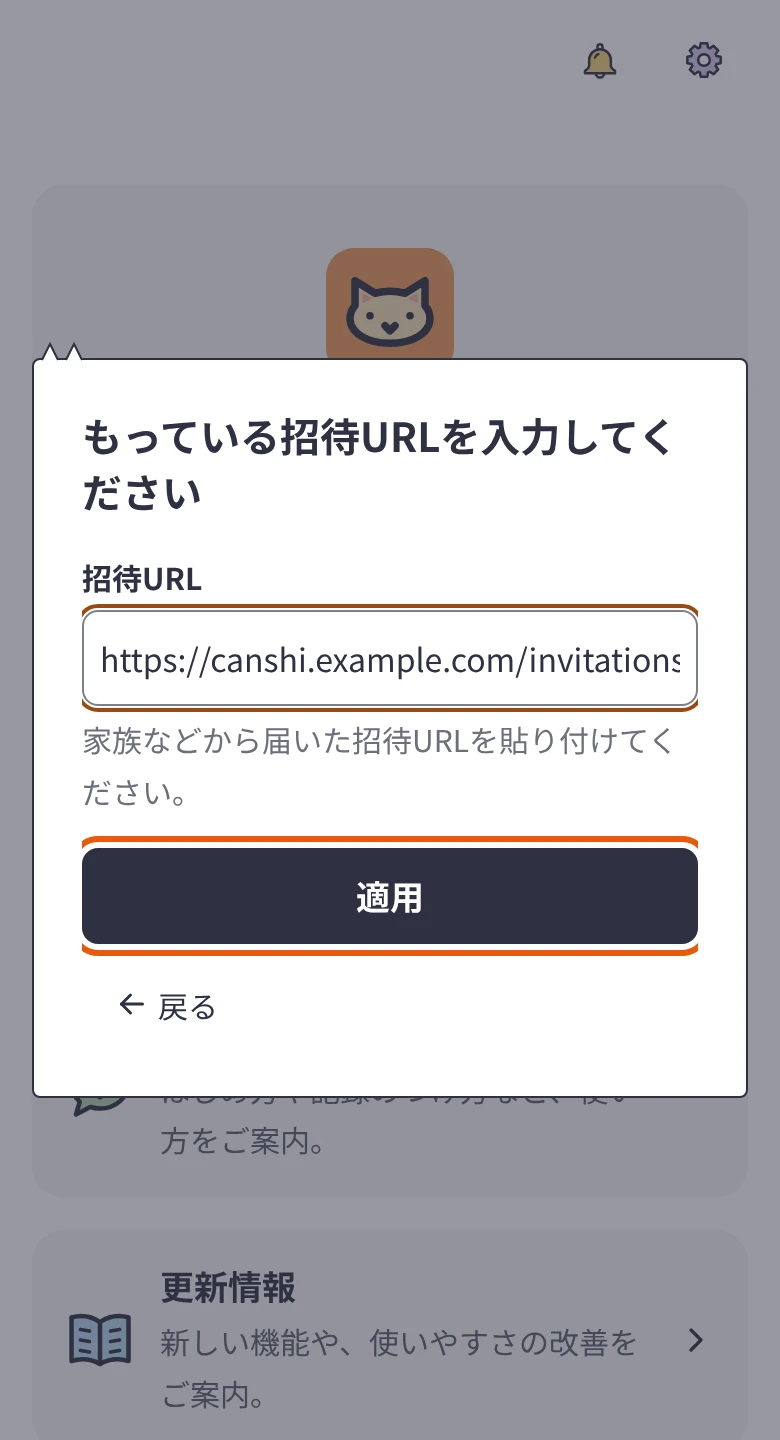
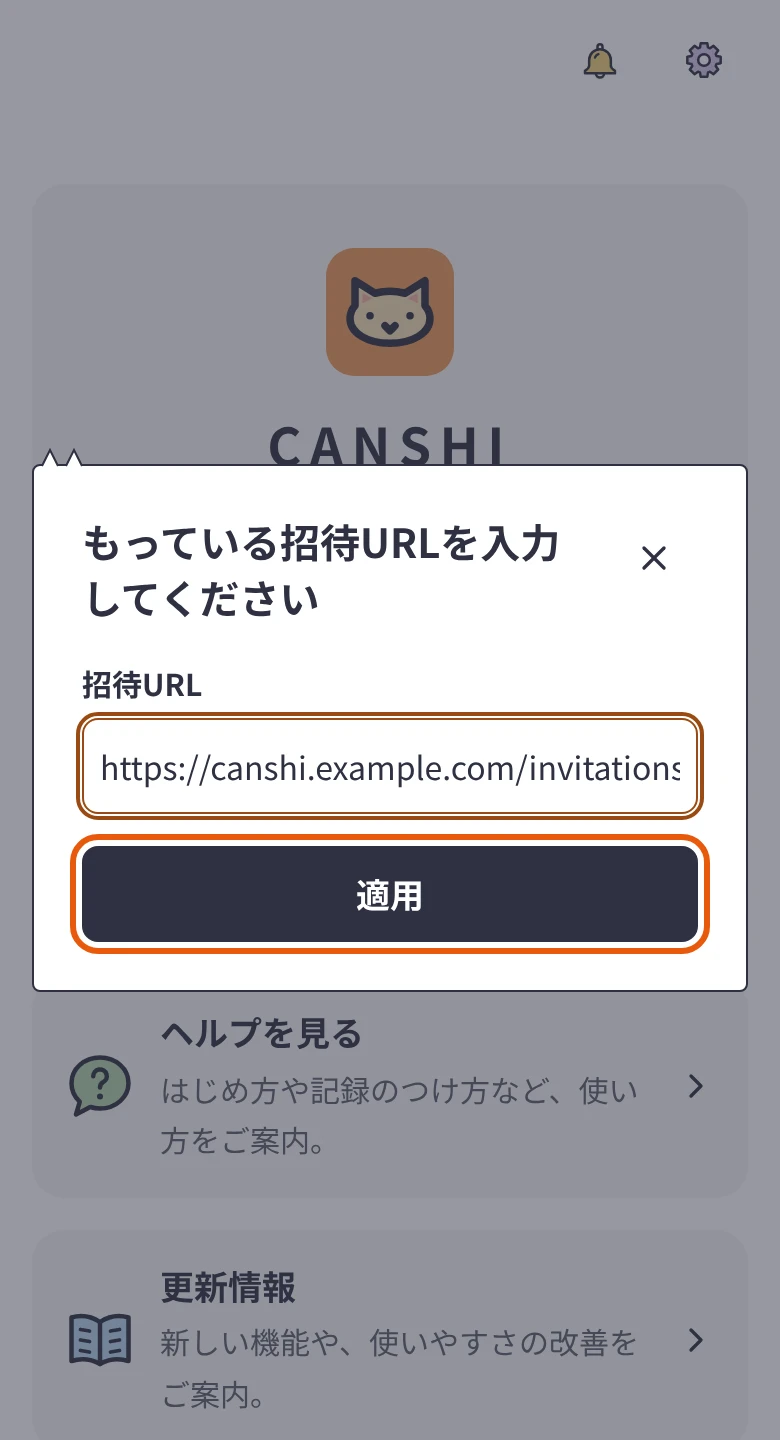
ウェルカムモーダルの見た目を調整する
- モーダルのスクロール領域に余白を取り、横幅いっぱいのボタン・入力欄のフォーカスの枠や、
  ヘルプの画像の強調の枠が左右で切れないようにする
- 紙吹雪を早めに消す（5.5 秒 → 3.5 秒）
- 招待URLの入力画面の説明文と「戻る」ボタンをなくし、右上の ✕ で選択に戻るようにする
  （Modal に閉じるボタンを出す closeButtonLabel を追加）
- ヘルプの画像を撮り直す

Claude-Session: https://claude.ai/code/session_01GXATvhAbUrHr8rGEBEkvDL

Changed region(s): [[0.0308, 0.2188, 0.9846, 0.7812]]

diff --git a/src/features/tour/presentation/WelcomeModal.tsx b/src/features/tour/presentation/WelcomeModal.tsx
@@ -2,7 +2,7 @@
 
 import { usePathname } from "next/navigation";
 import { type FormEvent, useState, useTransition } from "react";
-import { TbArrowLeft, TbArrowRight } from "react-icons/tb";
+import { TbArrowRight } from "react-icons/tb";
 import { Button, FormField, Modal } from "@/components/ui";
 import { isTourHiddenPath } from "../domain/tour";
 import { applyInvitationUrlAction, skipInvitationAction } from "./actions";
@@ -51,7 +51,9 @@ export function WelcomeModal() {
       <Modal
         open
         isDismissable={false}
-        onClose={() => {}}
+        // 招待 URL の入力画面では、右上の ✕ で「もっているか」の選択に戻る
+        closeButtonLabel={step === "invitation" ? "閉じる" : undefined}
+        onClose={() => setStep("choice")}
         title={
           step === "choice"
             ? "アカウントを作成いただきありがとうございます！"
@@ -90,7 +92,6 @@ export function WelcomeModal() {
               inputMode="url"
               autoComplete="off"
               placeholder="https://…/invitations/…"
-              description="家族などから届いた招待URLを貼り付けてください。"
               value={invitationUrl}
               onChange={(value) => {
                 setInvitationUrl(value);
@@ -102,25 +103,14 @@ export function WelcomeModal() {
               isRequired
               autoFocus
             />
-            <div className={styles.choices}>
-              <Button
-                type="submit"
-                variant="primary"
-                className={styles.submit}
-                isDisabled={isApplying}
-              >
-                {isApplying ? "適用しています..." : "適用"}
-              </Button>
-              <Button
-                variant="ghost"
-                leftIcon={TbArrowLeft}
-                className={styles.back}
-                isDisabled={isApplying}
-                onPress={() => setStep("choice")}
-              >
-                戻る
-              </Button>
-            </div>
+            <Button
+              type="submit"
+              variant="primary"
+              className={styles.submit}
+              isDisabled={isApplying}
+            >
+              {isApplying ? "適用しています..." : "適用"}
+            </Button>
           </form>
         )}
       </Modal>

diff --git a/src/components/ui/Modal/Modal.tsx b/src/components/ui/Modal/Modal.tsx
@@ -7,6 +7,8 @@ import {
   Heading,
   ModalOverlay,
 } from "react-aria-components";
+import { TbX } from "react-icons/tb";
+import { IconButton } from "../Button/IconButton";
 import { CatEarFrame } from "../CatEarFrame/CatEarFrame";
 import styles from "./Modal.module.css";
 
@@ -23,6 +25,11 @@ export type ModalProps = {
    * 選ぶまで閉じない
    */
   isDismissable?: boolean;
+  /**
+   * 指定すると、右上に閉じるボタン（✕）を出し、押したときに `onClose` を呼ぶ。
+   * 値はボタンの読み上げ用のラベル
+   */
+  closeButtonLabel?: string;
   children: ReactNode;
 };
 
@@ -32,8 +39,15 @@ export function Modal({
   onClose,
   size = "md",
   isDismissable = true,
+  closeButtonLabel,
   children,
 }: ModalProps) {
+  const heading = title ? (
+    <Heading slot="title" className={styles.title}>
+      {title}
+    </Heading>
+  ) : null;
+
   return (
     <ModalOverlay
       isOpen={open}
@@ -50,11 +64,19 @@ export function Modal({
         <Dialog className={styles.dialog}>
           <CatEarFrame className={styles.panel}>
             <div className={styles.scrollArea}>
-              {title ? (
-                <Heading slot="title" className={styles.title}>
-                  {title}
-                </Heading>
-              ) : null}
+              {closeButtonLabel ? (
+                <div className={styles.header}>
+                  {heading}
+                  <IconButton
+                    icon={TbX}
+                    aria-label={closeButtonLabel}
+                    className={styles.closeButton}
+                    onPress={onClose}
+                  />
+                </div>
+              ) : (
+                heading
+              )}
               {children}
             </div>
           </CatEarFrame>

diff --git a/src/components/ui/Modal/Modal.test.tsx b/src/components/ui/Modal/Modal.test.tsx
@@ -1,4 +1,4 @@
-import { render, screen } from "@testing-library/react";
+import { fireEvent, render, screen } from "@testing-library/react";
 import { describe, expect, it, vi } from "vitest";
 import { Modal } from "./Modal";
 
@@ -13,5 +13,27 @@ describe("Modal", () => {
     expect(
       screen.getByRole("dialog", { name: "確認ダイアログ" }),
     ).toBeInTheDocument();
+  });
+
+  it("closeButtonLabel を指定すると、右上の閉じるボタンで onClose を呼ぶ", () => {
+    const onClose = vi.fn();
+    render(
+      <Modal open title="確認" closeButtonLabel="閉じる" onClose={onClose}>
+        内容
+      </Modal>,
+    );
+
+    fireEvent.click(screen.getByRole("button", { name: "閉じる" }));
+    expect(onClose).toHaveBeenCalledTimes(1);
+  });
+
+  it("closeButtonLabel がなければ、閉じるボタンを出さない", () => {
+    render(
+      <Modal open title="確認" onClose={vi.fn()}>
+        内容
+      </Modal>,
+    );
+
+    expect(screen.queryByRole("button", { name: "閉じる" })).toBeNull();
   });
 });

diff --git a/src/components/ui/Modal/Modal.module.css b/src/components/ui/Modal/Modal.module.css
@@ -45,11 +45,17 @@
   min-height: 0;
 }
 
+/*
+ * スクロールさせると、はみ出した部分が切り取られる。横幅いっぱいのボタンや入力欄のフォーカスの枠
+ * （outline）が左右で切れないよう、内側に余白を取り、同じだけ外側へ広げて中身の位置は変えない
+ */
 .scrollArea {
   display: flex;
   flex-direction: column;
   min-height: 0;
   overflow-y: auto;
+  padding: var(--space-2);
+  margin: calc(var(--space-2) * -1);
 }
 
 .title {
@@ -58,4 +64,23 @@
   font-weight: var(--font-weight-bold);
   line-height: var(--line-height-heading);
   margin-bottom: var(--space-4);
+}
+
+/* 閉じるボタンを出すときは、見出しと横に並べ、ボタンを右上に置く */
+.header {
+  flex: none;
+  display: flex;
+  align-items: flex-start;
+  gap: var(--space-2);
+  margin-bottom: var(--space-4);
+}
+
+.header .title {
+  flex: 1;
+  margin-bottom: 0;
+}
+
+.closeButton {
+  flex: none;
+  margin-left: auto;
 }

diff --git a/src/features/tour/presentation/BurstConfetti.tsx b/src/features/tour/presentation/BurstConfetti.tsx
@@ -4,14 +4,14 @@ import { useEffect, useRef, useState } from "react";
 import styles from "./BurstConfetti.module.css";
 
 const PIECE_COUNT = 140;
-/** 紙吹雪を描き続ける時間。最後の 1 秒で薄くして消す */
-const LIFETIME_MS = 5500;
-const FADE_MS = 1000;
+/** 紙吹雪を描き続ける時間。最後の 0.8 秒で薄くして消す */
+const LIFETIME_MS = 3500;
+const FADE_MS = 800;
 /** 1 フレーム（60fps）あたりの重力と空気抵抗。値は見た目で決めた */
 const GRAVITY = 0.16;
 const DRAG = 0.965;
 /** ひらひら舞うときの落ちる速さの上限 */
-const MAX_FALL_SPEED = 2.4;
+const MAX_FALL_SPEED = 3;
 
 /** 見た目設定のアクセント色などに合わせる。読めなかったときは既定のテーマの色を使う */
 const COLOR_TOKENS: [token: string, fallback: string][] = [

diff --git a/e2e/tour.spec.ts b/e2e/tour.spec.ts
@@ -97,8 +97,8 @@ test("ウェルカムモーダルで招待 URL を入力すると、招待のペ
     invitationDialog.getByText(/招待URLの形式が正しくありません/),
   ).toBeVisible();
 
-  // 戻ると、もっているかどうかの選択に戻る
-  await invitationDialog.getByRole("button", { name: "戻る" }).click();
+  // 右上の ✕ を押すと、もっているかどうかの選択に戻る
+  await invitationDialog.getByRole("button", { name: "閉じる" }).click();
   await expect(welcome).toBeVisible();
   await welcome.getByRole("button", { name: "もっている" }).click();
 

diff --git a/e2e/help-screenshots.capture.ts b/e2e/help-screenshots.capture.ts
@@ -190,7 +190,8 @@ test("ヘルプのスクリーンショットを撮る", async ({ page, browser 
   );
   await highlight(welcomeInvitation.getByRole("button", { name: "適用" }));
   await capture(page, "welcome-invitation");
-  await welcomeInvitation.getByRole("button", { name: "戻る" }).click();
+  // 右上の ✕ で、もっているかどうかの選択に戻る
+  await welcomeInvitation.getByRole("button", { name: "閉じる" }).click();
 
   // ウェルカムモーダルとはじめてガイドのパネルが、ほかの画面に写らないようにする
   await quitTourGuide(page);

diff --git a/src/features/tour/presentation/WelcomeModal.module.css b/src/features/tour/presentation/WelcomeModal.module.css
@@ -19,7 +19,3 @@
 .submit {
   width: 100%;
 }
-
-.back {
-  align-self: flex-start;
-}
